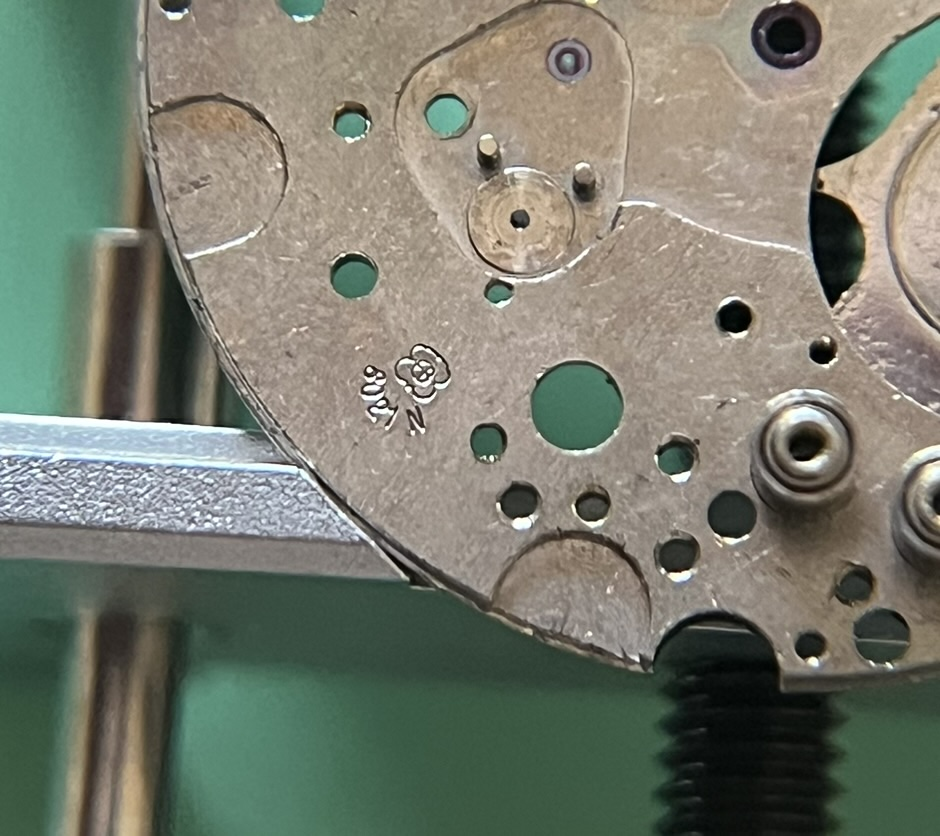
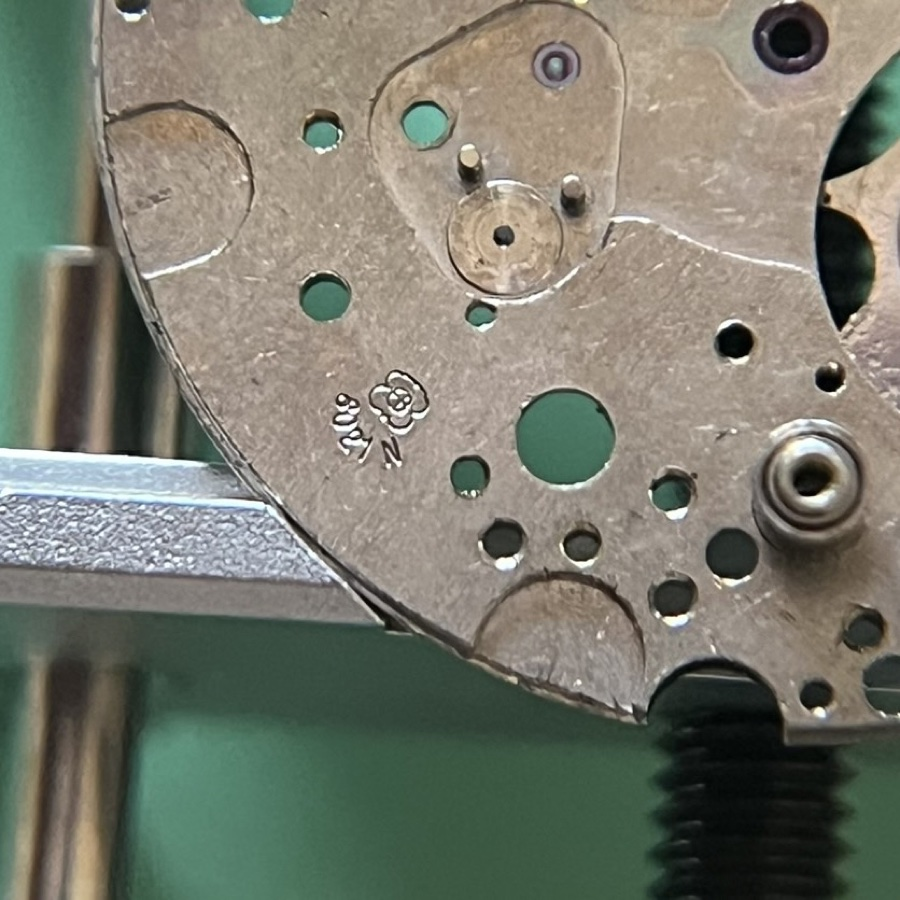
blog: Draken photo pairs and polished crystal

diff --git a/_posts/2026-10-29-excel-geneve-draken.md b/_posts/2026-10-29-excel-geneve-draken.md
@@ -38,14 +38,20 @@ According to the [Ranfft watch database](https://ranfft.org/manufacturer/77-Ebau
 
 I think a combination of 1 and 2 was the reason the watch wasn't running. It came back to life after soaking up some of the excess Brent-grade lubricant and putting the spring where it belonged. I regret not having done a more systematic analysis here, but a runner is a runner! Boy was I proud, but not for long.
 
-<figure>
-  <img src="/assets/img/posts/excel-geneve-draken/barrel.jpeg" alt="The movement side in a holder before cleaning, with old oil smeared over the barrel and gear train">
-  <figcaption>The movement side before cleaning, with excess oil clearly visible on the barrel</figcaption>
-</figure>
-
 ## Service / Repair
 
 Well, since not much was to be repaired after all, I prepared the cleaning solutions and put part group by part group in it - still being quite paranoid I would lose or mix up screws of the different bridges. While the parts were soaking in the solvents, I turned to the crystal. I used sandpaper sticks from Amazon (grit 800 -8000 and polywatch) to first remove all the scratches with a low grit, and then move up towards higher and higher numbers, always 90° compared to the last round until the previous round's (micro-)scratches disappeared. A final round of polywatch left a nearly perfect crystal. Quite astonishing how easy that was and how good it looks. 
+
+<div class="photo-pair">
+  <figure>
+    <img src="/assets/img/posts/excel-geneve-draken/barrel.jpeg" alt="The movement side in a holder before cleaning, with old oil smeared over the barrel and gear train">
+    <figcaption>The movement side before cleaning, with excess oil clearly visible on the barrel</figcaption>
+  </figure>
+  <figure>
+    <img src="/assets/img/posts/excel-geneve-draken/crystal_polished.jpeg" alt="The Excel Geneve Draken 7000 without its strap after polishing: the crystal is clear again, showing the silver dial, the Draken 7000 lettering and the date window">
+    <figcaption>The crystal after polishing</figcaption>
+  </figure>
+</div>
 
 After the cleaned parts were reassembled, which to my own surprise went down without any major incidents, and the watch instantly started running, I immediately noticed a massive beat error: you could hear it galloping like a horse! That needed to be investigated. And this is where things went south, but also where I probably learned the most. 
 
